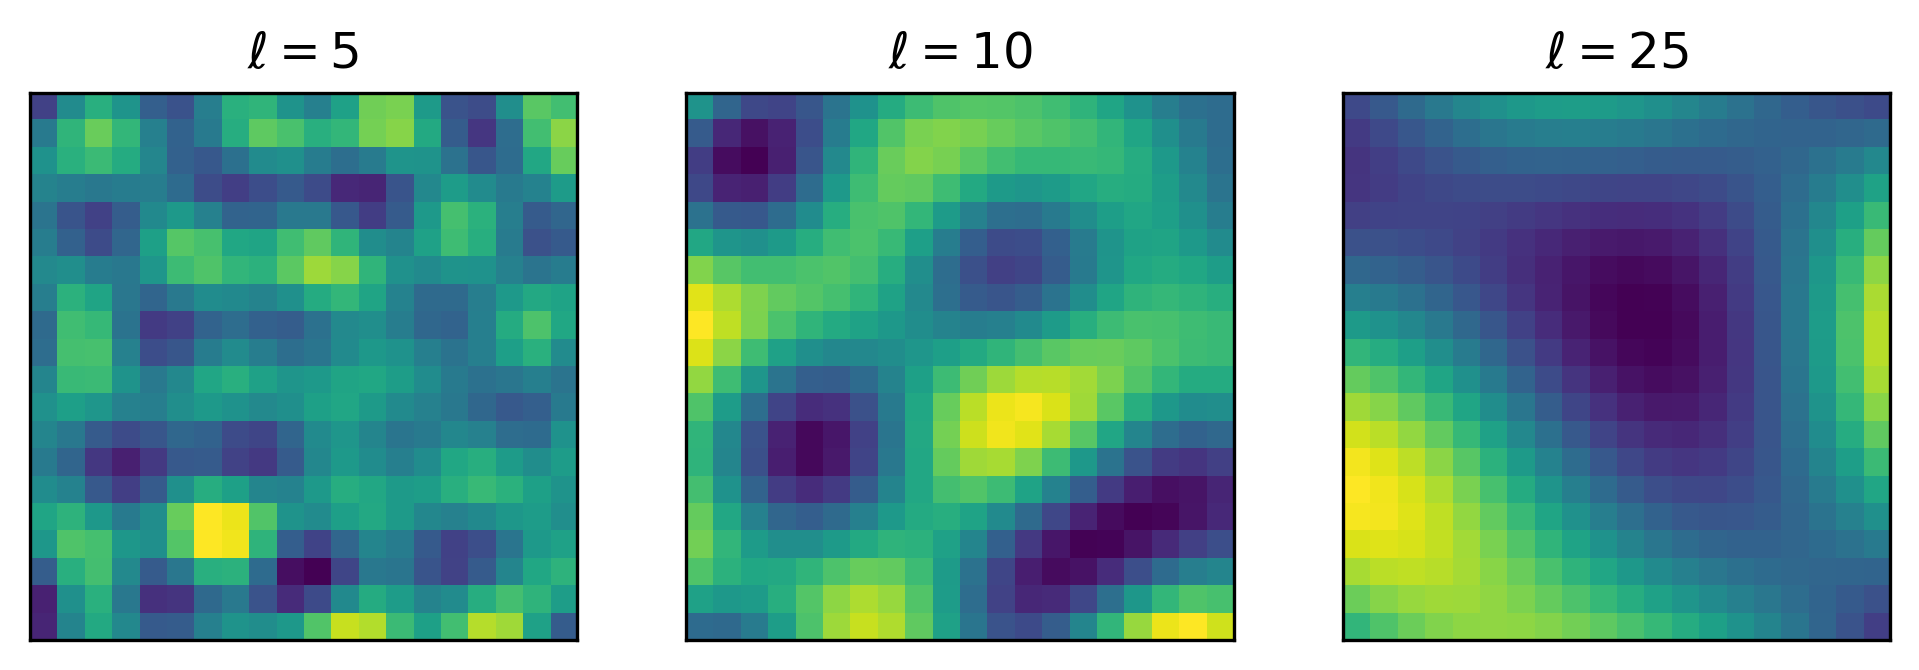
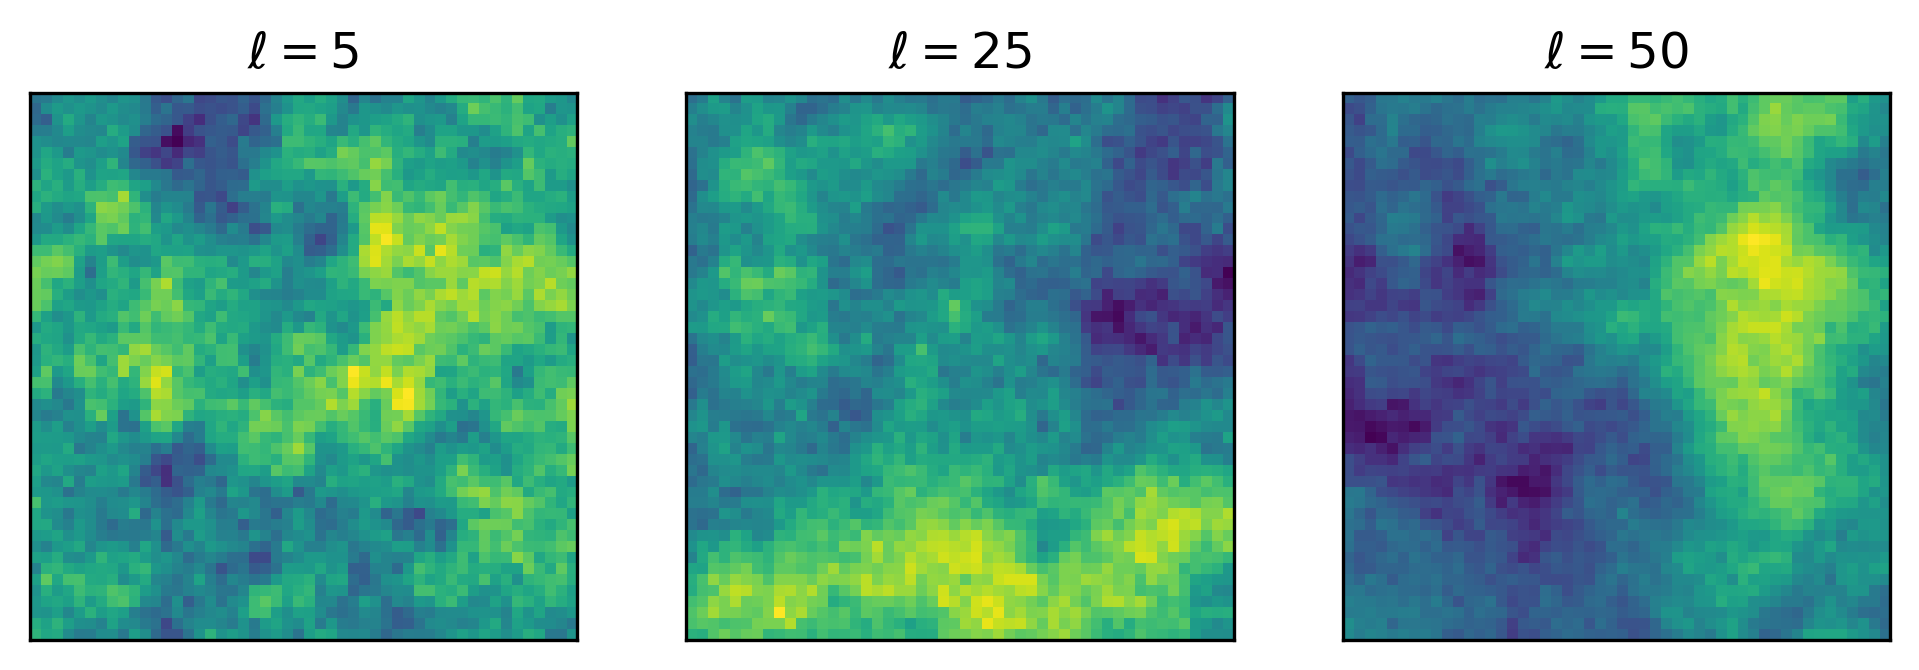
crude exponential grf

diff --git a/geospatial_utils/fields.py b/geospatial_utils/fields.py
@@ -1,18 +1,26 @@
+"""https://pieterjanrobbe.github.io/GaussianRandomFields.jl/dev/tutorial/"""
+
 import numpy as np
 from numbers import Number
 from itertools import product
 from scipy.spatial import distance_matrix
 
+
 def cosine_cov(dx, l=1):
     return np.cos(2 * np.pi * dx / l)
 
-def gaussian_random_field(nx, ny, l=10, mean=0, var=1):
+
+def exp1d_cov(dx, l=0.1, σ=1):
+    return σ * np.exp( -dx / l)
+
+
+def gaussian_random_field(nx, ny, l=10, mean=0, var=1, cov=cosine_cov):
     """Sample a basic Gaussian random field using cosine covariance."""
     n = nx * ny
     if isinstance(mean, Number):
         mean = mean * np.ones(n)
     coords = np.array(list(product(range(ny), range(nx))))
     dmat = distance_matrix(coords, coords)
-    cmat = cosine_cov(dmat, l=l)
+    cmat = cov(dmat, l=l)
     grf = np.random.multivariate_normal(mean, var * cmat)
     return grf.reshape([ny, nx])

diff --git a/setup.py b/setup.py
@@ -12,7 +12,8 @@ setup(
         "geopandas",
         "numpy",
         "scipy",
-        "sklearn",
-        "matplotlib"
+        "scikit-learn",
+        "matplotlib",
+        "xarray"
     ]
 )
